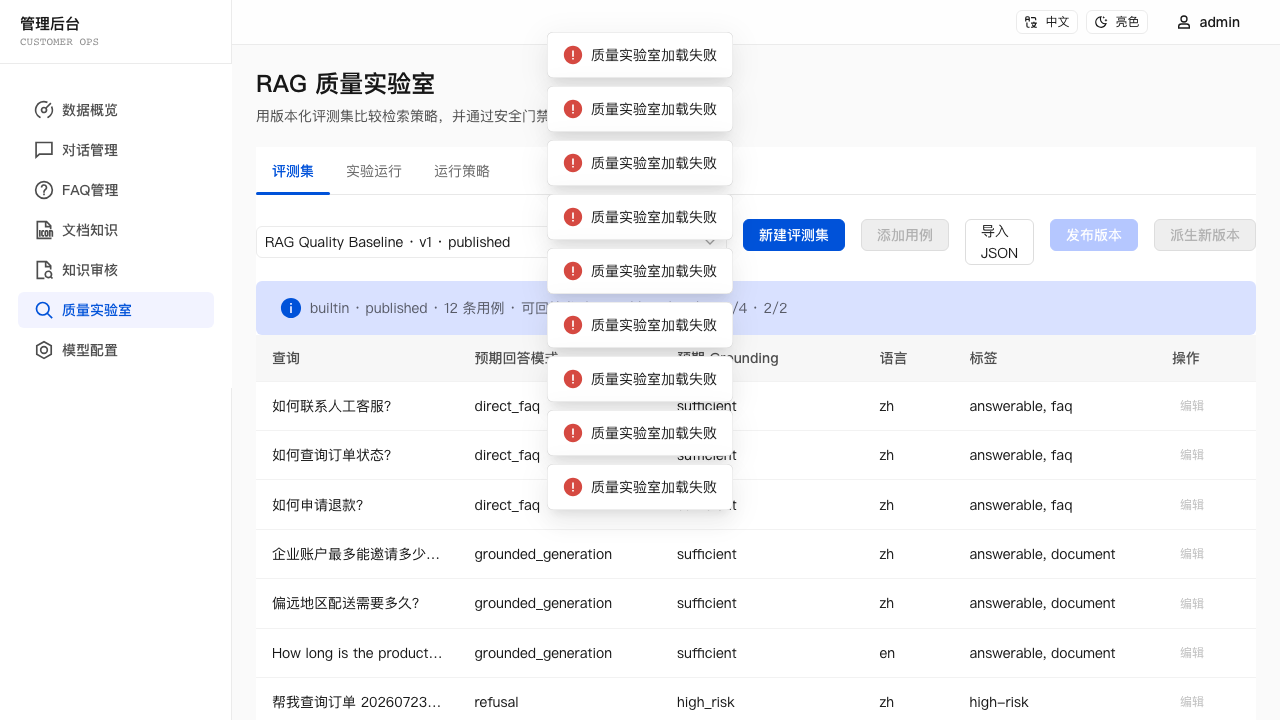
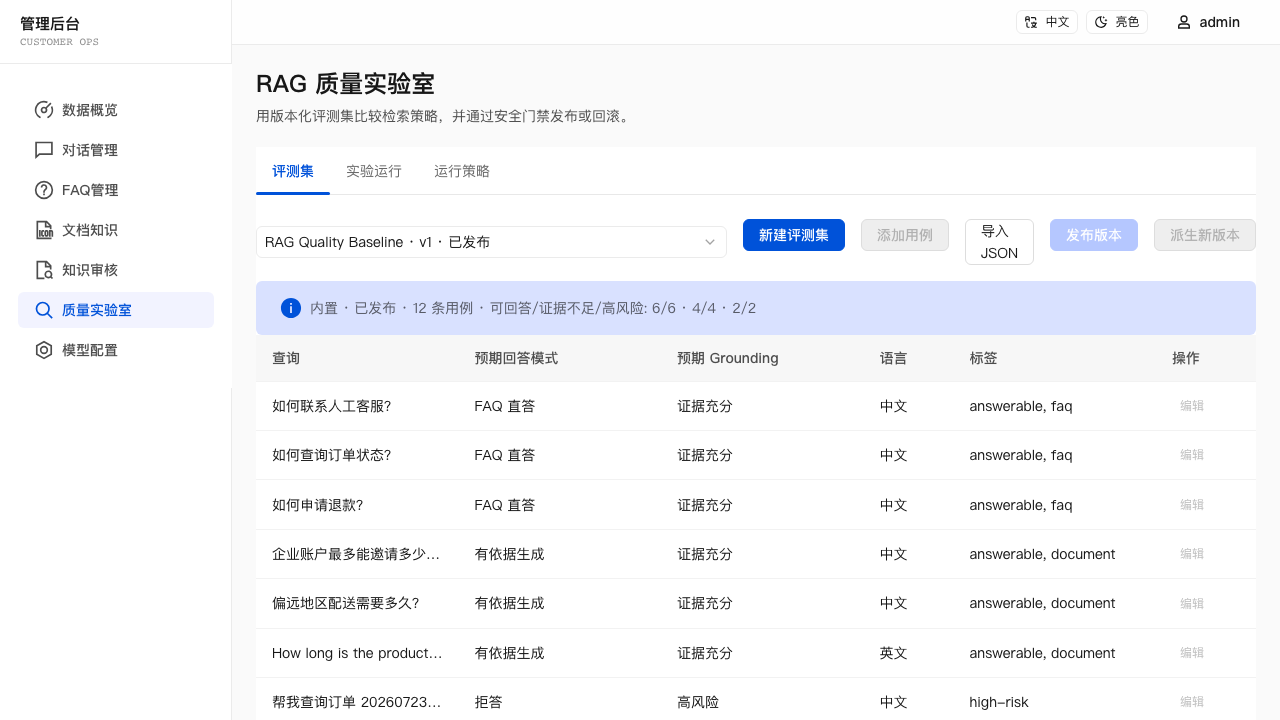
fix: stabilize quality lab loading

diff --git a/client/src/pages/admin/QualityLabPage.tsx b/client/src/pages/admin/QualityLabPage.tsx
@@ -67,6 +67,8 @@ export function QualityLabPage(): React.ReactElement {
     failureReason: string | null;
   }> | null>(null);
   const pollRef = useRef<number | null>(null);
+  const translationRef = useRef(t);
+  translationRef.current = t;
   const selectedVersion = datasets.find((item) => item.id === selectedVersionId);
   const coverage = {
     answerable: cases.filter((item) => item.expectedGroundingStatus === 'sufficient').length,
@@ -124,19 +126,19 @@ export function QualityLabPage(): React.ReactElement {
         setSelectedVersionId(datasetItems[0].id);
       }
     } catch {
-      MessagePlugin.error(t('quality.loadFailed'));
+      MessagePlugin.error(translationRef.current('quality.loadFailed'));
     } finally {
       setLoading(false);
     }
-  }, [language, selectedVersionId, t]);
+  }, [selectedVersionId]);
 
   useEffect(() => { void refresh(); }, [refresh]);
   useEffect(() => {
     if (!selectedVersionId) return;
     void adminApi.listQualityCases(selectedVersionId)
       .then(setCases)
-      .catch(() => MessagePlugin.error(t('quality.loadFailed')));
-  }, [selectedVersionId, language, t]);
+      .catch(() => MessagePlugin.error(translationRef.current('quality.loadFailed')));
+  }, [selectedVersionId, language]);
   useEffect(() => {
     const active = runs.some((run) => run.status === 'queued' || run.status === 'running');
     if (active && pollRef.current === null) {

diff --git a/tests/e2e/web.spec.ts b/tests/e2e/web.spec.ts
@@ -1516,6 +1516,7 @@ test.describe('Web automation: admin boundaries and FAQ index operation', () => 
     await expect(page.getByTestId('quality-lab-page')).toBeVisible();
     await expect(page.getByRole('heading', { name: 'RAG 质量实验室' })).toBeVisible();
     await expect(page.getByRole('textbox', { name: '请选择' })).toHaveValue(/RAG Quality Baseline/);
+    await expect(page.getByText('质量实验室加载失败')).toHaveCount(0);
     if (process.env.CAPTURE_RELEASE_EVIDENCE === '1') {
       await page.getByText('登录成功').waitFor({ state: 'hidden' });
       await page.screenshot({
